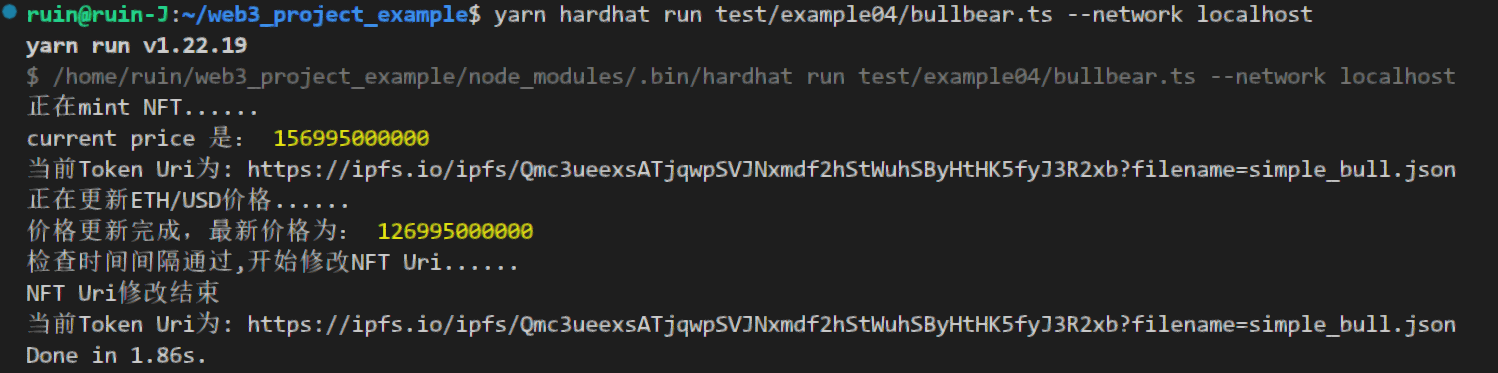
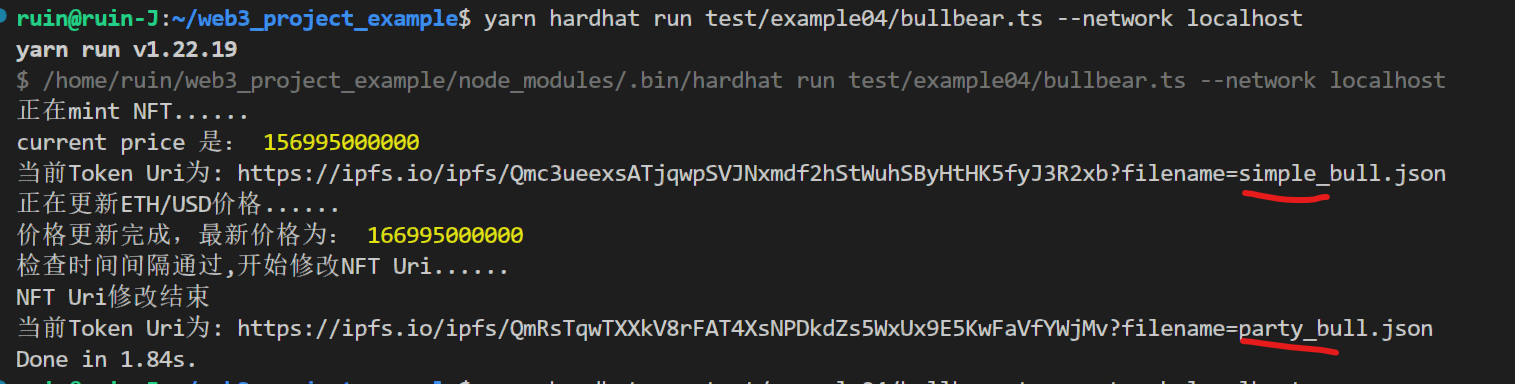
update

Changed region(s): [[0.0, 0.0, 0.9826, 0.9732], [0.6142, 0.9732, 0.6449, 1.0]]

diff --git a/test/example04/bullbear.ts b/test/example04/bullbear.ts
@@ -55,7 +55,7 @@ async function main() {
 	await getCurrentPrice(bullBearContract);
 	await getTokenUri(bullBearContract);
 
-	await updatePrice(priceContract, "126995000000");
+	await updatePrice(priceContract, "166995000000");
 
 	await checkAndUpKeep(bullBearContract);
 
